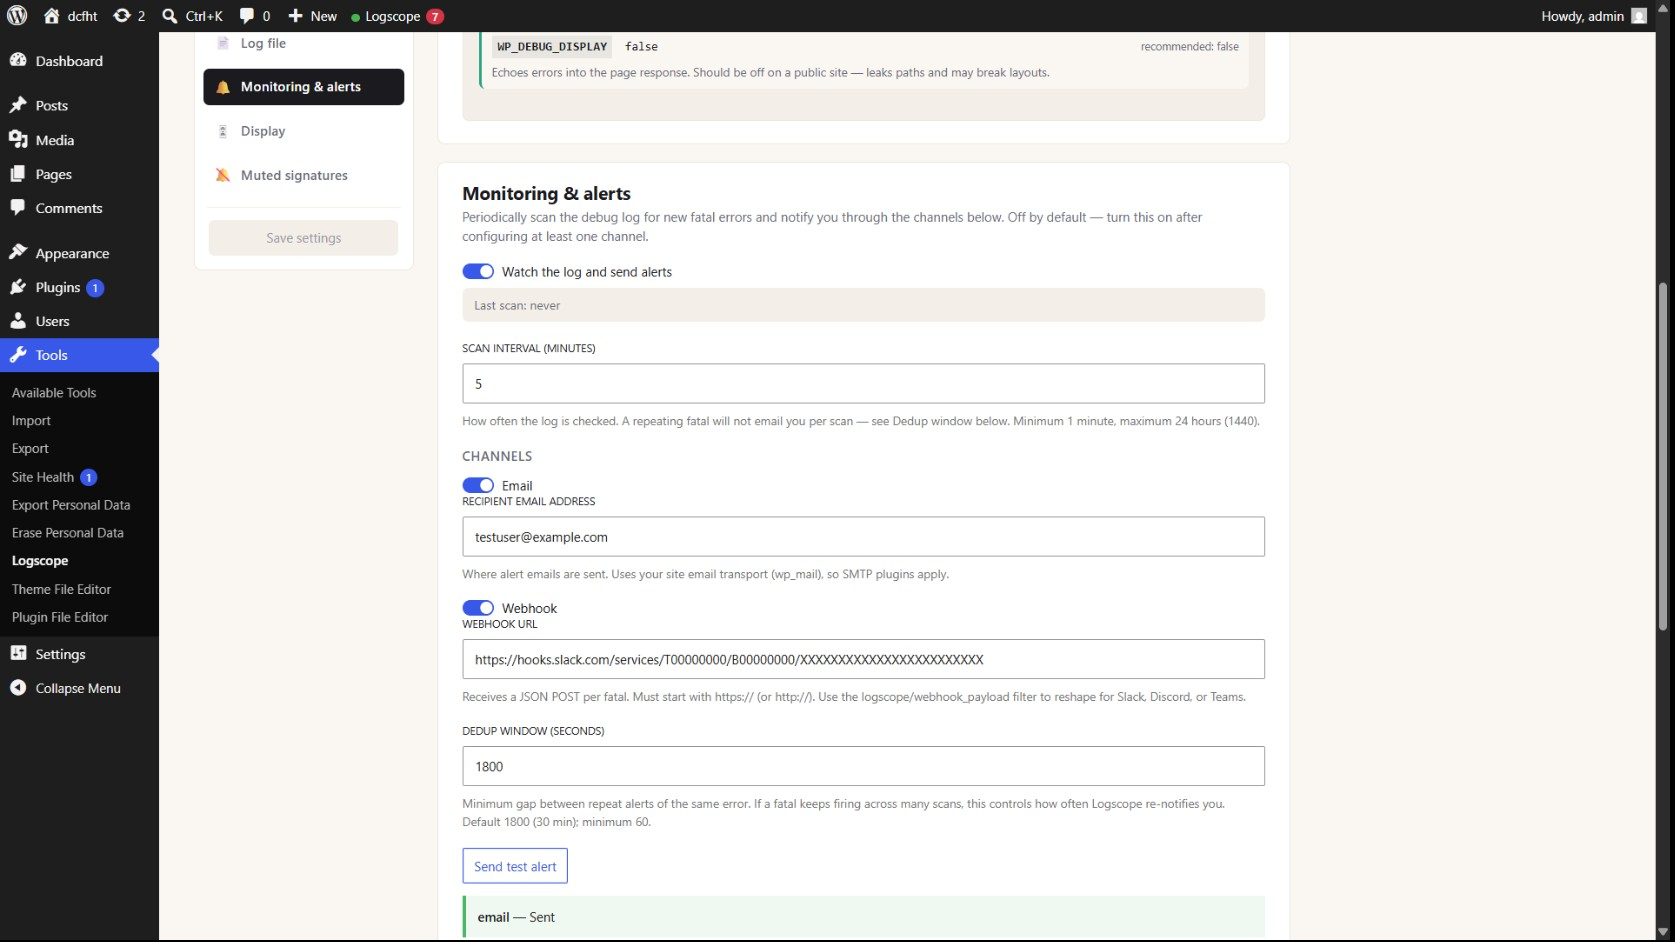
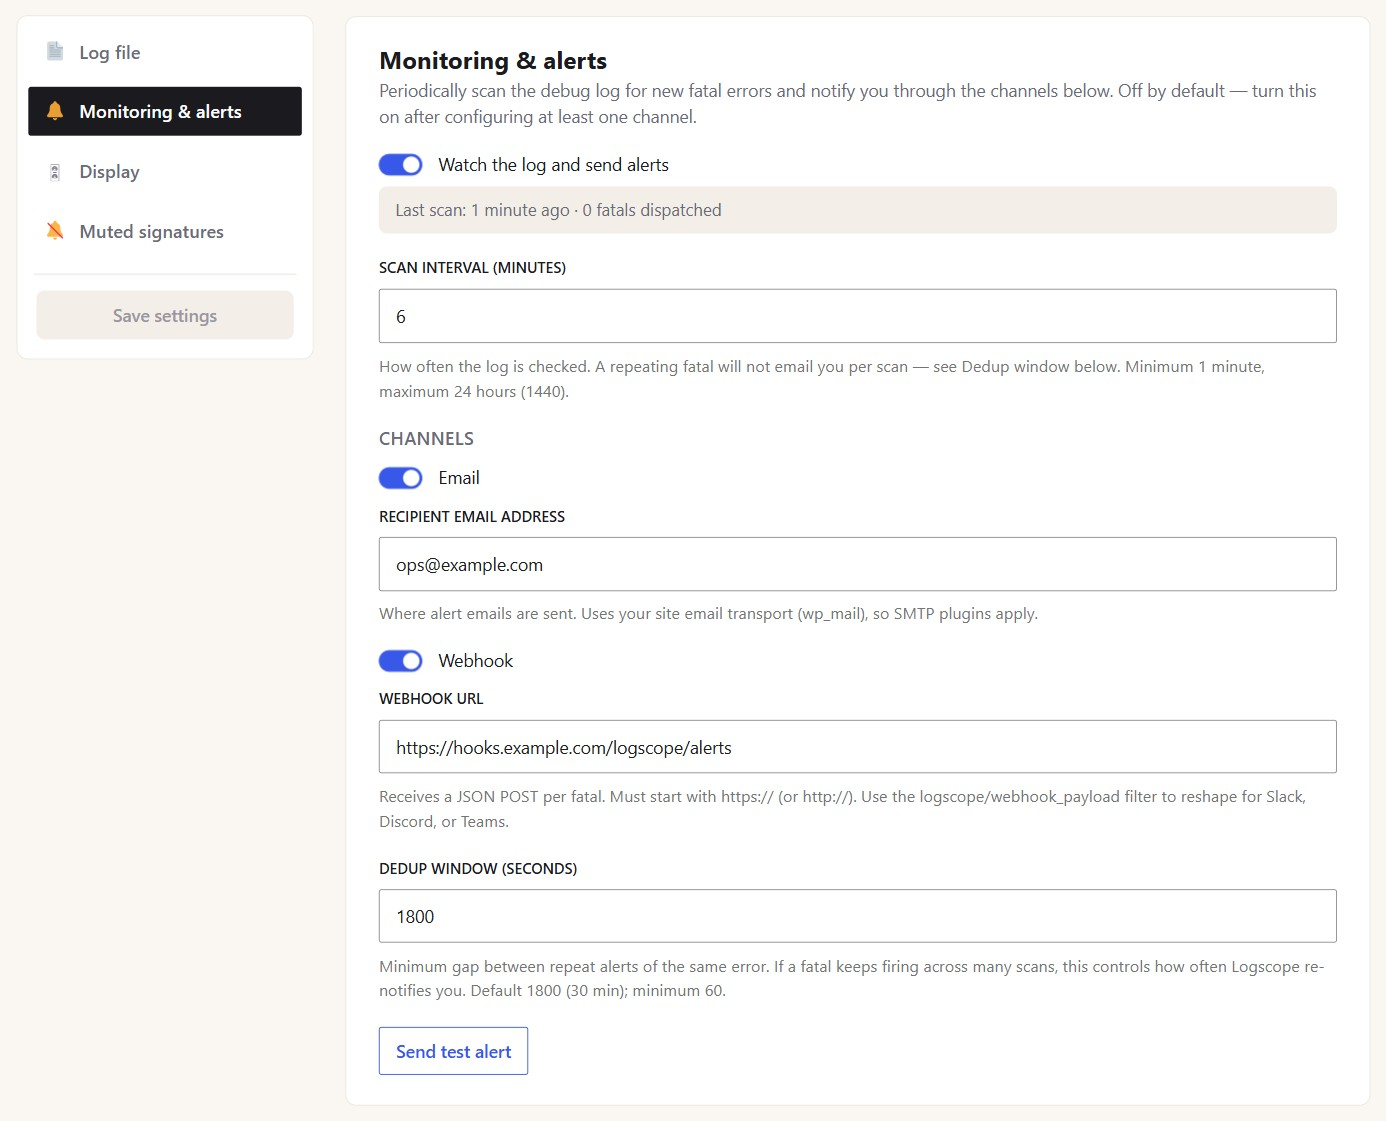
docs(wp.org): re-capture the six listing screenshots on the 1.0.0 UI from the seeded local install, drop the stale re-capture note from the asset README

Changed region(s): [[0.0, 0.0, 1.0, 1.0], [0.6825, 0.3079, 0.8997, 0.3386], [0.1551, 0.2463, 0.2172, 0.2771]]

diff --git a/.wordpress-org/README.md b/.wordpress-org/README.md
@@ -2,7 +2,7 @@
 
 This directory holds the binary assets the WordPress.org plugin directory shows on the plugin page (banner, icon, screenshots). It is **export-ignored** from the distribution zip via `.gitattributes`; assets land in the wp.org SVN `assets/` directory at submission time, not inside the plugin zip itself.
 
-This file is the spec for those binaries. The banner, icons, and six screenshots are checked in next to it (produced by hand; CI does not build them). Screenshots are re-captured by hand whenever the UI they show changes, see the note under the checklist.
+This file is the spec for those binaries. The banner, icons, and six screenshots are checked in next to it; CI does not build them. Screenshots are re-captured whenever the UI they show changes (last capture: 2026-09-14, on the 1.0.0 UI, from a seeded local install at a 1680px viewport; settings sections shot at 135% zoom so the narrow column still yields a 1300px+ image).
 
 ---
 
@@ -20,12 +20,6 @@ This file is the spec for those binaries. The banner, icons, and six screenshots
 | `screenshot-6.jpg`    | ≥ 1280 px wide | JPEG              | Caption: "Onboarding banner shown when `WP_DEBUG_LOG` is missing."               |
 
 Captions above are sourced verbatim from the `== Screenshots ==` section of [`readme.txt`](../readme.txt). The wp.org renderer matches `screenshot-N.jpg` to the Nth caption in `readme.txt` by index, so the filenames must stay in lockstep with the order there.
-
-> **Re-capture required before the v1.0.0 cut:** the checked-in screenshots are dated
-> 2026-06-23 and predate the toolbar rename (they still show `Tail` / `Grouped` / `List`),
-> the Monitoring merge, and the September relabels. Re-shoot all six on the current UI
-> (toolbar reads **All entries / Unique errors / Live**) with Stats as screenshot 2, on a
-> seeded log so the data looks real.
 
 Optional retina variants (`banner-3088x1000.png`, `icon-512x512.png`) can be added later — wp.org will serve them when present without any other change.
 

diff --git a/CHANGELOG.md b/CHANGELOG.md
@@ -23,6 +23,7 @@ First public release on the WordPress.org plugin directory (Phase 21 of the [roa
 
 ### Changed
 
+-   wp.org listing screenshots re-captured on the 1.0.0 UI (All entries / Unique errors / Live toolbar, merged Monitoring section, Muted signatures with messages), in the order `readme.txt` lists them.
 -   `AlertDispatcherInterface` gains `last_error(): ?string`. Custom dispatchers must implement it (return `null` when the last dispatch succeeded).
 -   `POST /logs/mute` accepts an optional `sample_message` (500 chars, sanitised); `GET /logs/mute` items include it.
 -   The log-file setting is relabelled "Live refresh interval (seconds)" (was "Tail interval"), and its help text plus the section lead now describe it in terms of "Live mode" to match the toolbar's Live button rather than the old "tail" vocabulary.
